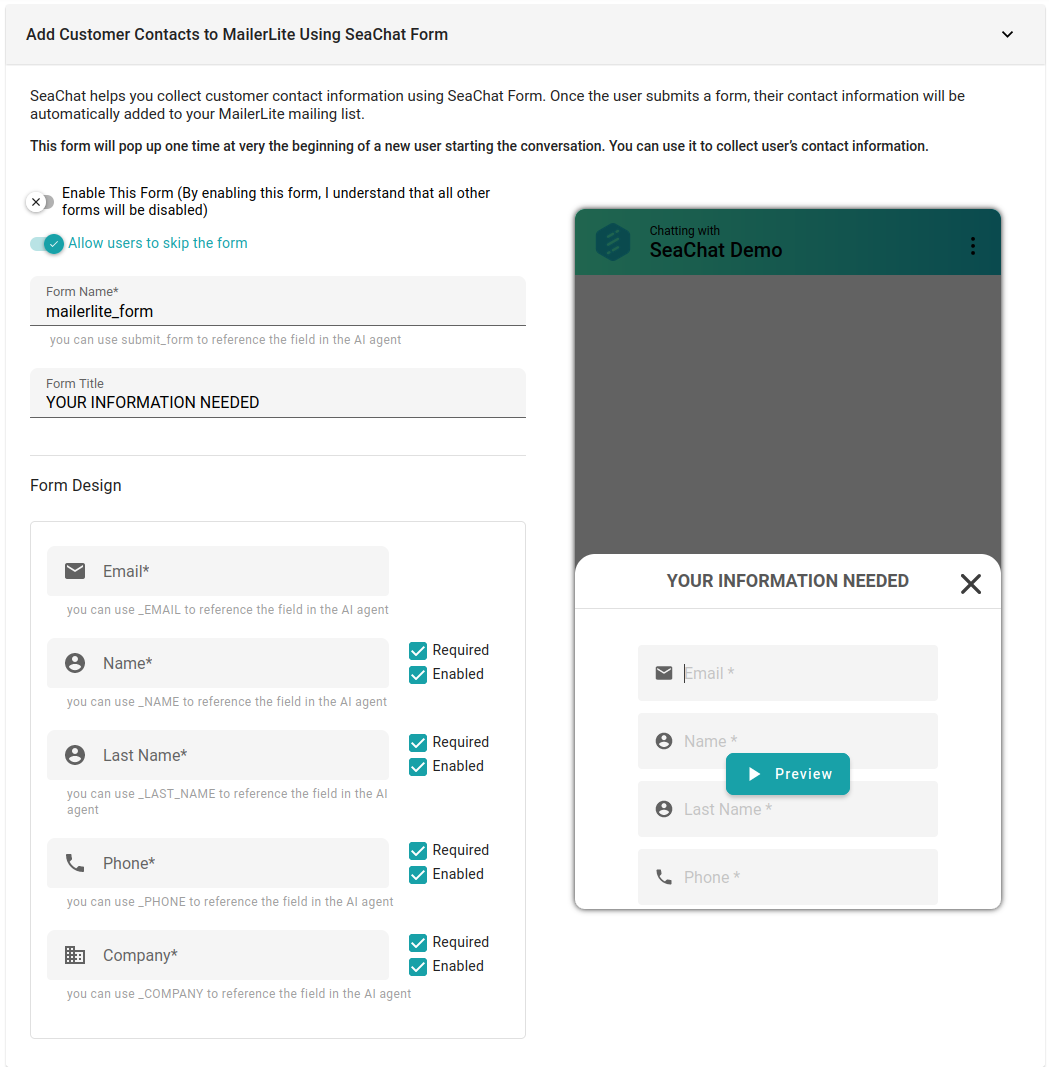
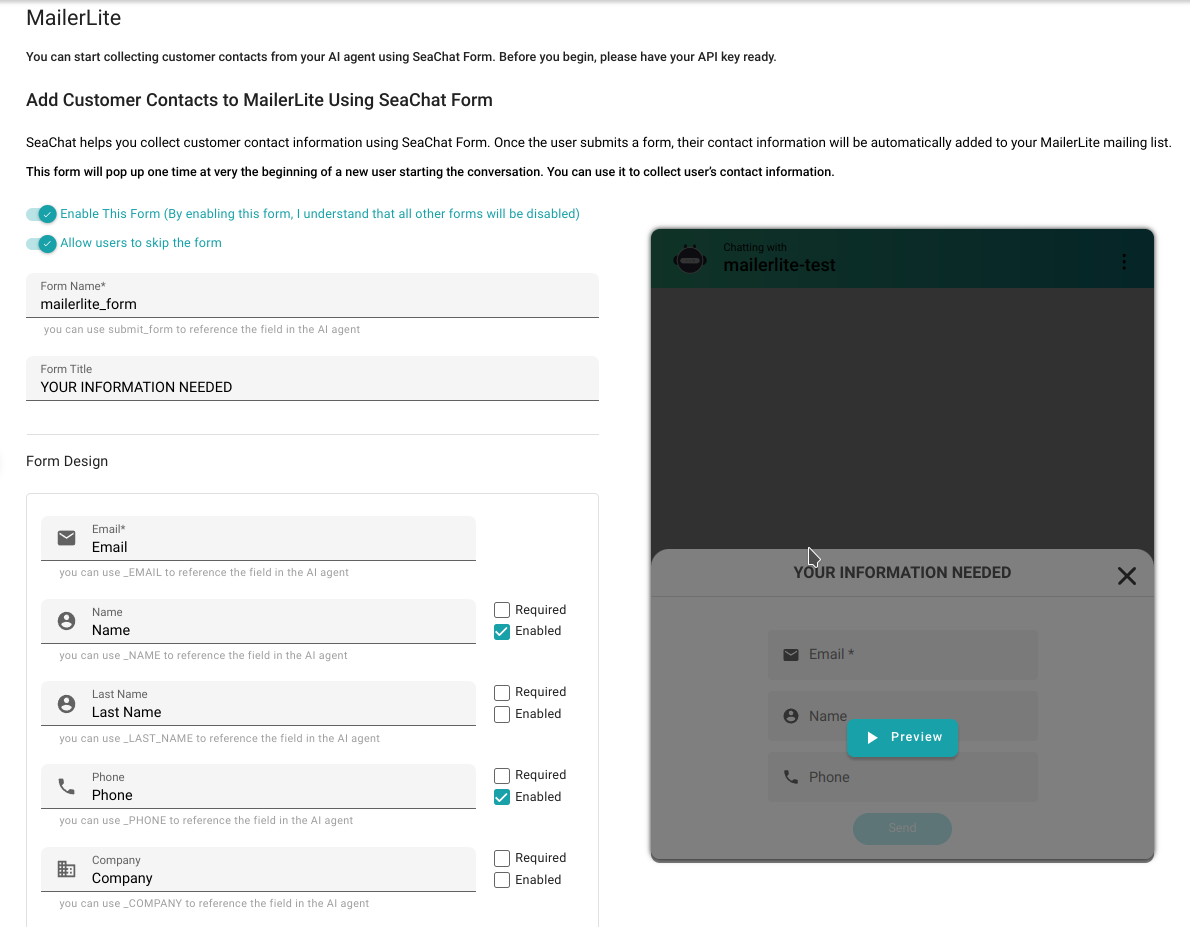
update pictures

diff --git a/content/en/seachat/full-tutorials/01-mailerlite.md b/content/en/seachat/full-tutorials/01-mailerlite.md
@@ -27,10 +27,9 @@ In this tutorial, we will walk you through every step you need to connect your M
 With your workspace and agent selected, navigate to the "Agent Configuration" drop down on the left action bar and select "Plugins". From the Plugins page you can select the MailerLite card to access the setup page.
 
 ## Step 2: Configuring your form
-<img width="100%" style="border-radius: 0.4rem" src="/images/seachat-integrations/mailerlite/mailerlite-main-page.png" alt="mailerlite setup page.">
-On the Mailerlite setup page you will see two extendable cards. The first card contains configuration settings for the form that will be sent to the user when starting a webchat conversation. The second card contains configuration settings for your specific MailerLite integration.
+On the Mailerlite setup page you will see two sections. The first section contains configuration settings for the form that will be sent to the user when starting a webchat conversation. The second section contains configuration settings for your specific MailerLite integration.
 <img width="100%" style="border-radius: 0.4rem" src="/images/seachat-integrations/mailerlite/mailerlite-form-setup.png" alt="mailerlite form setup page.">
-The form configuration card has your settings on the left, as well as a preview of your current form on the right. Lets go over each of the settings and how they affect the form:
+The form configuration section has your settings on the left, as well as a preview of your current form on the right. Lets go over each of the settings and how they affect the form:
 
 **Enable This Form:** This switch enables and disables the form. When it is enabled, the form you configure will appear at the beginning of a new conversation with your SeaChat Agent. Keep in mind that you can only have one form attached to an agent at a time, so when you enable this, all other forms will disabled for the current agent. If you would like to use another form, this form must be disabled. 
 
@@ -46,6 +45,7 @@ field must be filled before the user can submit the form; this will be indicated
 <img width="100%" style="border-radius: 0.4rem" src="/images/seachat-integrations/mailerlite/mailerlite-integration-setup.png" alt="mailerlite integration setup page.">
 
 There are two fields in the MailerLite integration settings card. The first is your API Key, which is what connects your form submissions to your MailerLite account. If you are unsure of how to find your MailerLite API Key you can follow this link for instructions: [How to get MailerLite API Key](/seachat/seachat-manual/05-integrations/05-seachat-mailerlite-integration/). There is also a link at the bottom of this card. 
+
 **NOTE:** The API key field is required to save the integration
 
 The second field, "Group ID" is optional. If you want users to be added to specific groups in your mailing list you can add their ids here (separated by comma if multiple). 
@@ -56,19 +56,18 @@ If you wish to remove your configurations, you can use the remove button at the 
 
 ## Step 3: Test Your Form
 
-<img width="100%" style="border-radius: 0.4rem" src="/images/seachat-integrations/mailerlite/navigate-to-agent-info.png" alt="mailerlite integration setup page.">
 Once you have configured and saved your MailerLite form settings, you probably want to test that everything is working. To do this, make sure your form is enabled and navigate to the "Agent Information" page from the Agent Configuration drop down on the left action bar.
 
-<img width="100%" style="border-radius: 0.4rem" src="/images/seachat-integrations/mailerlite/test-ai-agent-button.png" alt="mailerlite integration setup page.">
+<img width="100%" style="border-radius: 0.4rem" src="/images/seachat-integrations/mailerlite/test-ai-agent-button.png" alt="mailerlite test agent button.">
 On this page you will see a large green button that says "Test AI Agent" on the bottom right. If you click this button it will open a chat conversation with your currently selected AI Agent. 
 
-<img width="100%" style="border-radius: 0.4rem" src="/images/seachat-integrations/mailerlite/mailerlite-form-submission.png" alt="mailerlite integration setup page.">
+<img width="100%" style="border-radius: 0.4rem" src="/images/seachat-integrations/mailerlite/mailerlite-form-submission.png" alt="mailerlite form submission">
 If it is a new conversation, within a few seconds your MailerLite form that you configured in the last step will appear at the bottom of the chat window. From here you can fill out requested information and hit submit at the bottom of the form. (Note: If this is not your first time testing your AI Agent it is possible that it will open a previous conversation. You can open this page in a new incognito window to ensure you start a new conversation)  
 
-<img width="100%" style="border-radius: 0.4rem" src="/images/seachat-integrations/mailerlite/mailerlite-find-email.png" alt="mailerlite integration setup page.">
+<img width="100%" style="border-radius: 0.4rem" src="/images/seachat-integrations/mailerlite/mailerlite-find-email.png" alt="mailerlite find email.">
 Once the form has been submitted you can head over to MailerLite. Once you log in you can go to the Subscribers page from the left action bar. Here, you should be able to see the email from the user that you have just submitted at the top of your subscriber list. If you dont see it right away, you can also search for it up with the grey search button at the top right of the page.
 
-<img width="100%" style="border-radius: 0.4rem" src="/images/seachat-integrations/mailerlite/mailerlite-view-email.png" alt="mailerlite integration setup page.">
+<img width="100%" style="border-radius: 0.4rem" src="/images/seachat-integrations/mailerlite/mailerlite-view-email.png" alt="mailerlite view email page.">
 You can click on the email to view details about the newly added subscriber such as any other information that might have been submitted with the form, as well as any groups that you included on the setup page.
 
 ## Conclusion
